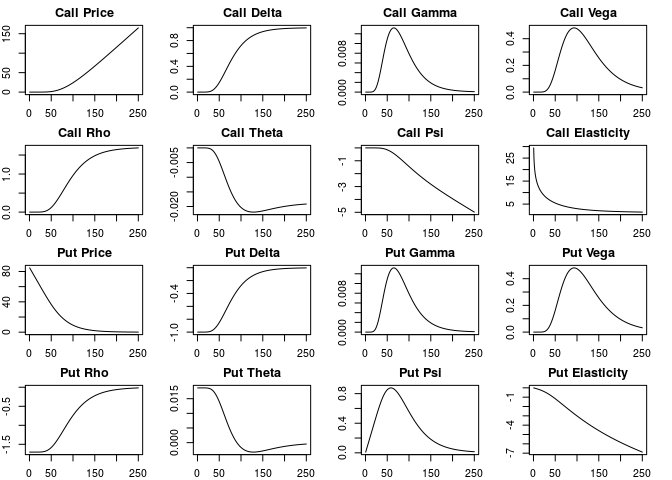
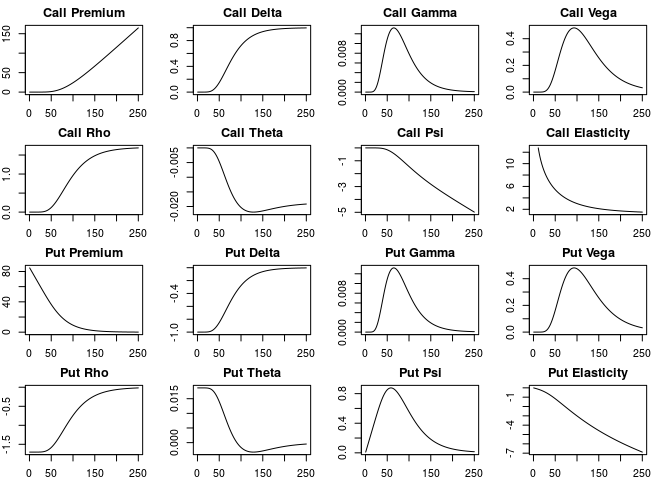
updated README

Changed region(s): [[0.75, 0.3125, 0.9375, 0.4688], [0.0625, 0.0, 0.1875, 0.0625], [0.0625, 0.5, 0.1875, 0.5312]]

diff --git a/README.md b/README.md
@@ -1,10 +1,6 @@
 [![Build
 Status](https://travis-ci.org/rmcd1024/derivmkts.svg?branch=master)](https://travis-ci.org/rmcd1024/derivmkts)[![](http://www.r-pkg.org/badges/version/derivmkts)](http://www.r-pkg.org/pkg/derivmkts)
 
-# Derivmkts: An option pricing package for R
-
-## Introduction
-
 This is a collection of option pricing functions for a course in
 financial derivatives. The names of the functions mostly match those in
 my book *Derivatives Markets*, which explains the package name. This is
@@ -32,9 +28,9 @@ The package includes functions for computing
 
   - Analytical and Monte Carlo pricing of Asian options
 
-## Things of note
+# Things of note
 
-### Calculation of Greeks
+## Calculation of Greeks
 
 I have tried to make calculation of Greeks easy. The function `greeks()`
 accepts an option pricing function call as an argument, and returns a
@@ -49,7 +45,7 @@ can access the delta values, for example, using `x['Delta', ]`.
 x1 <- greeks(bscall(s=40, k=c(35, 40, 45), v=0.3, r=0.08, tt=0.25, d=0))
 x1
              bscall_35   bscall_40   bscall_45
-Price       6.13481997  2.78473666  0.97436823
+Premium     6.13481997  2.78473666  0.97436823
 Delta       0.86401619  0.58251565  0.28200793
 Gamma       0.03636698  0.06506303  0.05629794
 Vega        0.04364029  0.07807559  0.06755753
@@ -59,14 +55,16 @@ Psi        -0.08640162 -0.05825156 -0.02820079
 Elasticity  5.63352271  8.36726367 11.57705764
 ```
 
-There is a new `tidy` option which produces output in a possibly more
-convenient format:
+There is a new `tidy` option which produces output in a more convenient
+format (note that `tidy` here refers to the function’s output;
+`tidyverse` packages are not required). If `tidy=TRUE`, `long=TRUE` will
+produce long-form output.
 
 ``` r
 x2 <- greeks(bscall(s=40, k=c(35, 40, 45), v=0.3, r=0.08, tt=0.25, d=0),
              tidy=TRUE)
 x2
-   s  k   v    r   tt d funcname      prem     delta       vega        rho
+   s  k   v    r   tt d funcname   premium     delta       vega        rho
 1 40 35 0.3 0.08 0.25 0   bscall 6.1348200 0.8640162 0.04364029 0.07106457
 2 40 40 0.3 0.08 0.25 0   bscall 2.7847367 0.5825156 0.07807559 0.05128972
 3 40 45 0.3 0.08 0.25 0   bscall 0.9743682 0.2820079 0.06755753 0.02576487
@@ -74,6 +72,34 @@ x2
 1 -0.01340407 -0.08640162  5.633523 0.03636698
 2 -0.01733098 -0.05825156  8.367264 0.06506303
 3 -0.01336419 -0.02820079 11.577058 0.05629794
+x3 <- greeks(bscall(s=40, k=c(35, 40, 45), v=0.3, r=0.08, tt=0.25, d=0),
+             tidy=TRUE, long=TRUE)
+x3
+    s  k   v    r   tt d funcname   greek       value
+1  40 35 0.3 0.08 0.25 0   bscall premium  6.13481997
+2  40 40 0.3 0.08 0.25 0   bscall premium  2.78473666
+3  40 45 0.3 0.08 0.25 0   bscall premium  0.97436823
+4  40 35 0.3 0.08 0.25 0   bscall   delta  0.86401619
+5  40 40 0.3 0.08 0.25 0   bscall   delta  0.58251565
+6  40 45 0.3 0.08 0.25 0   bscall   delta  0.28200793
+7  40 35 0.3 0.08 0.25 0   bscall    vega  0.04364029
+8  40 40 0.3 0.08 0.25 0   bscall    vega  0.07807559
+9  40 45 0.3 0.08 0.25 0   bscall    vega  0.06755753
+10 40 35 0.3 0.08 0.25 0   bscall     rho  0.07106457
+11 40 40 0.3 0.08 0.25 0   bscall     rho  0.05128972
+12 40 45 0.3 0.08 0.25 0   bscall     rho  0.02576487
+13 40 35 0.3 0.08 0.25 0   bscall   theta -0.01340407
+14 40 40 0.3 0.08 0.25 0   bscall   theta -0.01733098
+15 40 45 0.3 0.08 0.25 0   bscall   theta -0.01336419
+16 40 35 0.3 0.08 0.25 0   bscall     psi -0.08640162
+17 40 40 0.3 0.08 0.25 0   bscall     psi -0.05825156
+18 40 45 0.3 0.08 0.25 0   bscall     psi -0.02820079
+19 40 35 0.3 0.08 0.25 0   bscall   elast  5.63352271
+20 40 40 0.3 0.08 0.25 0   bscall   elast  8.36726367
+21 40 45 0.3 0.08 0.25 0   bscall   elast 11.57705764
+22 40 35 0.3 0.08 0.25 0   bscall   gamma  0.03636698
+23 40 40 0.3 0.08 0.25 0   bscall   gamma  0.06506303
+24 40 45 0.3 0.08 0.25 0   bscall   gamma  0.05629794
 ```
 
 This small bit of code computes and plots all call and put Greeks for
@@ -113,9 +139,9 @@ ggplot(yg, aes(x=s, y=Value, color=funcname)) + geom_line() +
 
 This is a great illustration of how powerful R can be.
 
-### Binomial calculations
+## Binomial calculations
 
-#### binomopt
+### binomopt
 
 By default the binomopt function returns the price of an American call.
 In adddition:
@@ -193,7 +219,7 @@ $bondtree
 [3,]  0.00000  0.000000 38.947430
 ```
 
-#### binomplot
+### binomplot
 
 This function plots the binomial tree, providing a visual depiction of
 the nodes, the probability of reaching each node, and whether exercise
@@ -205,7 +231,7 @@ binomplot(41, 40, .3, .08, 1, 0, 3, putopt=TRUE, american=TRUE)
 
 ![](README_files/figure-gfm/unnamed-chunk-7-1.png)<!-- -->
 
-### Galton board or quincunx
+## Galton board or quincunx
 
 The [Galton board](http://mathworld.wolfram.com/GaltonBoard.html) is a
 pegboard that illustrates the central limit theorem. Balls drop from the
